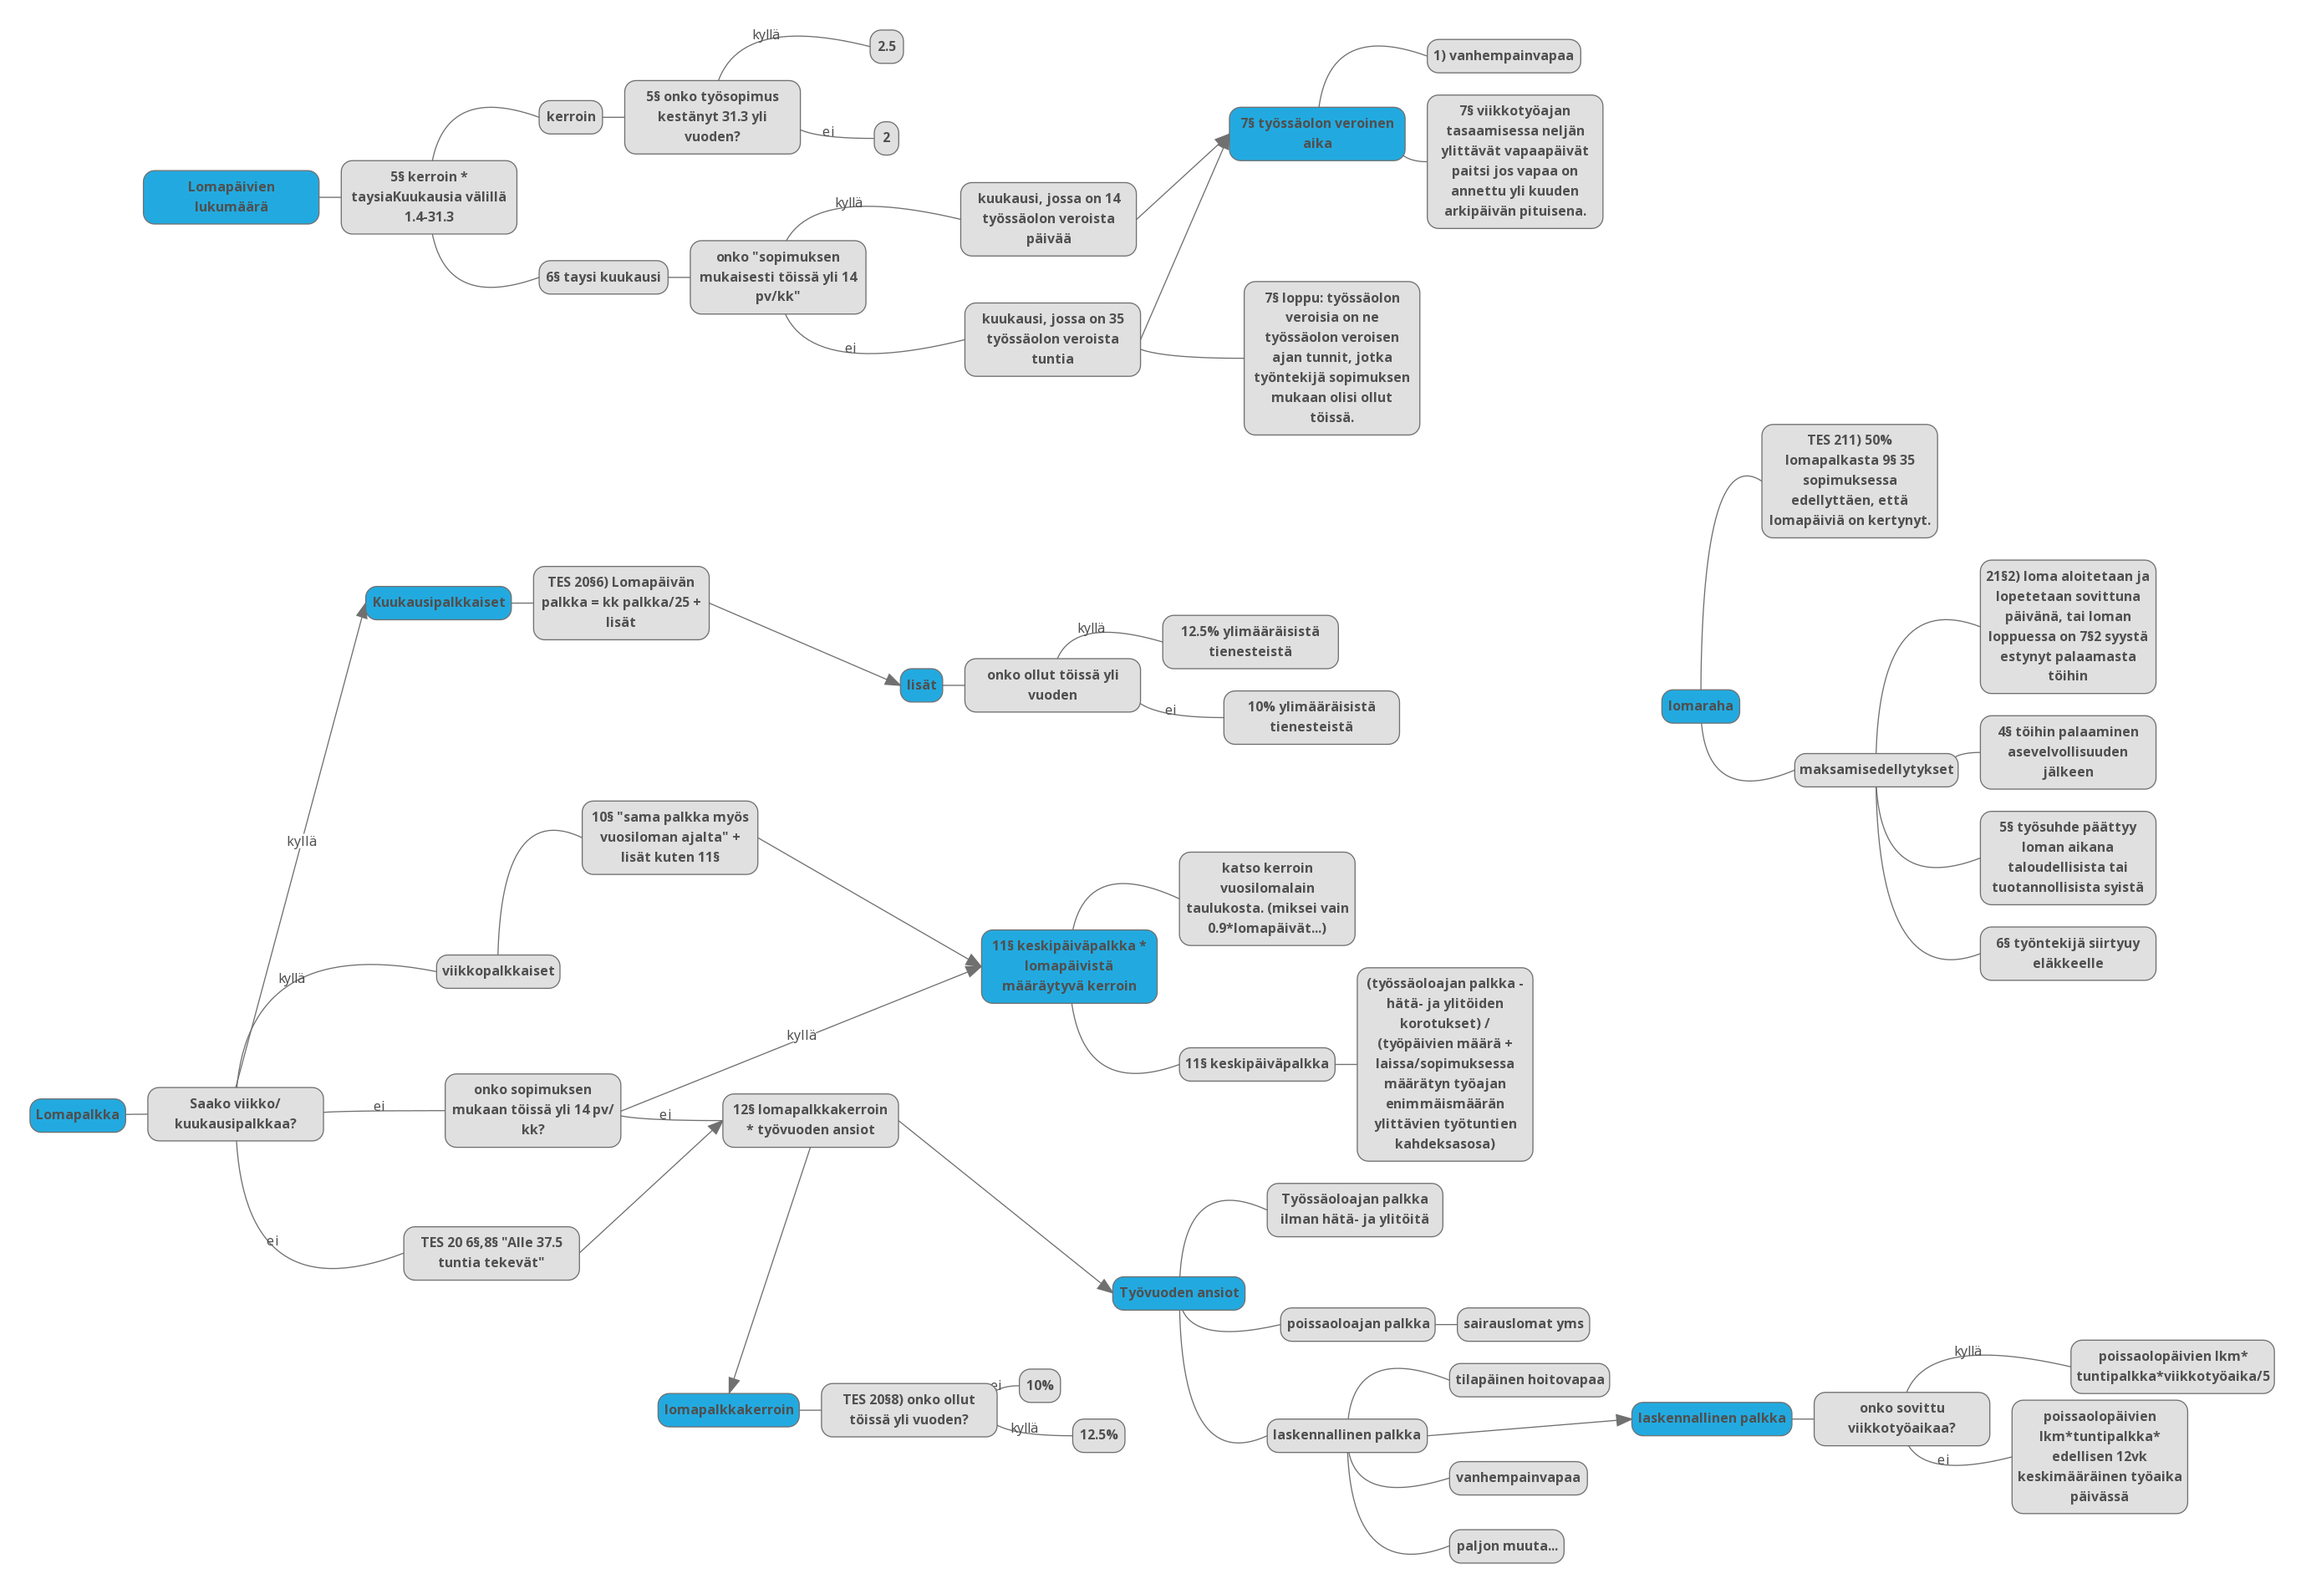
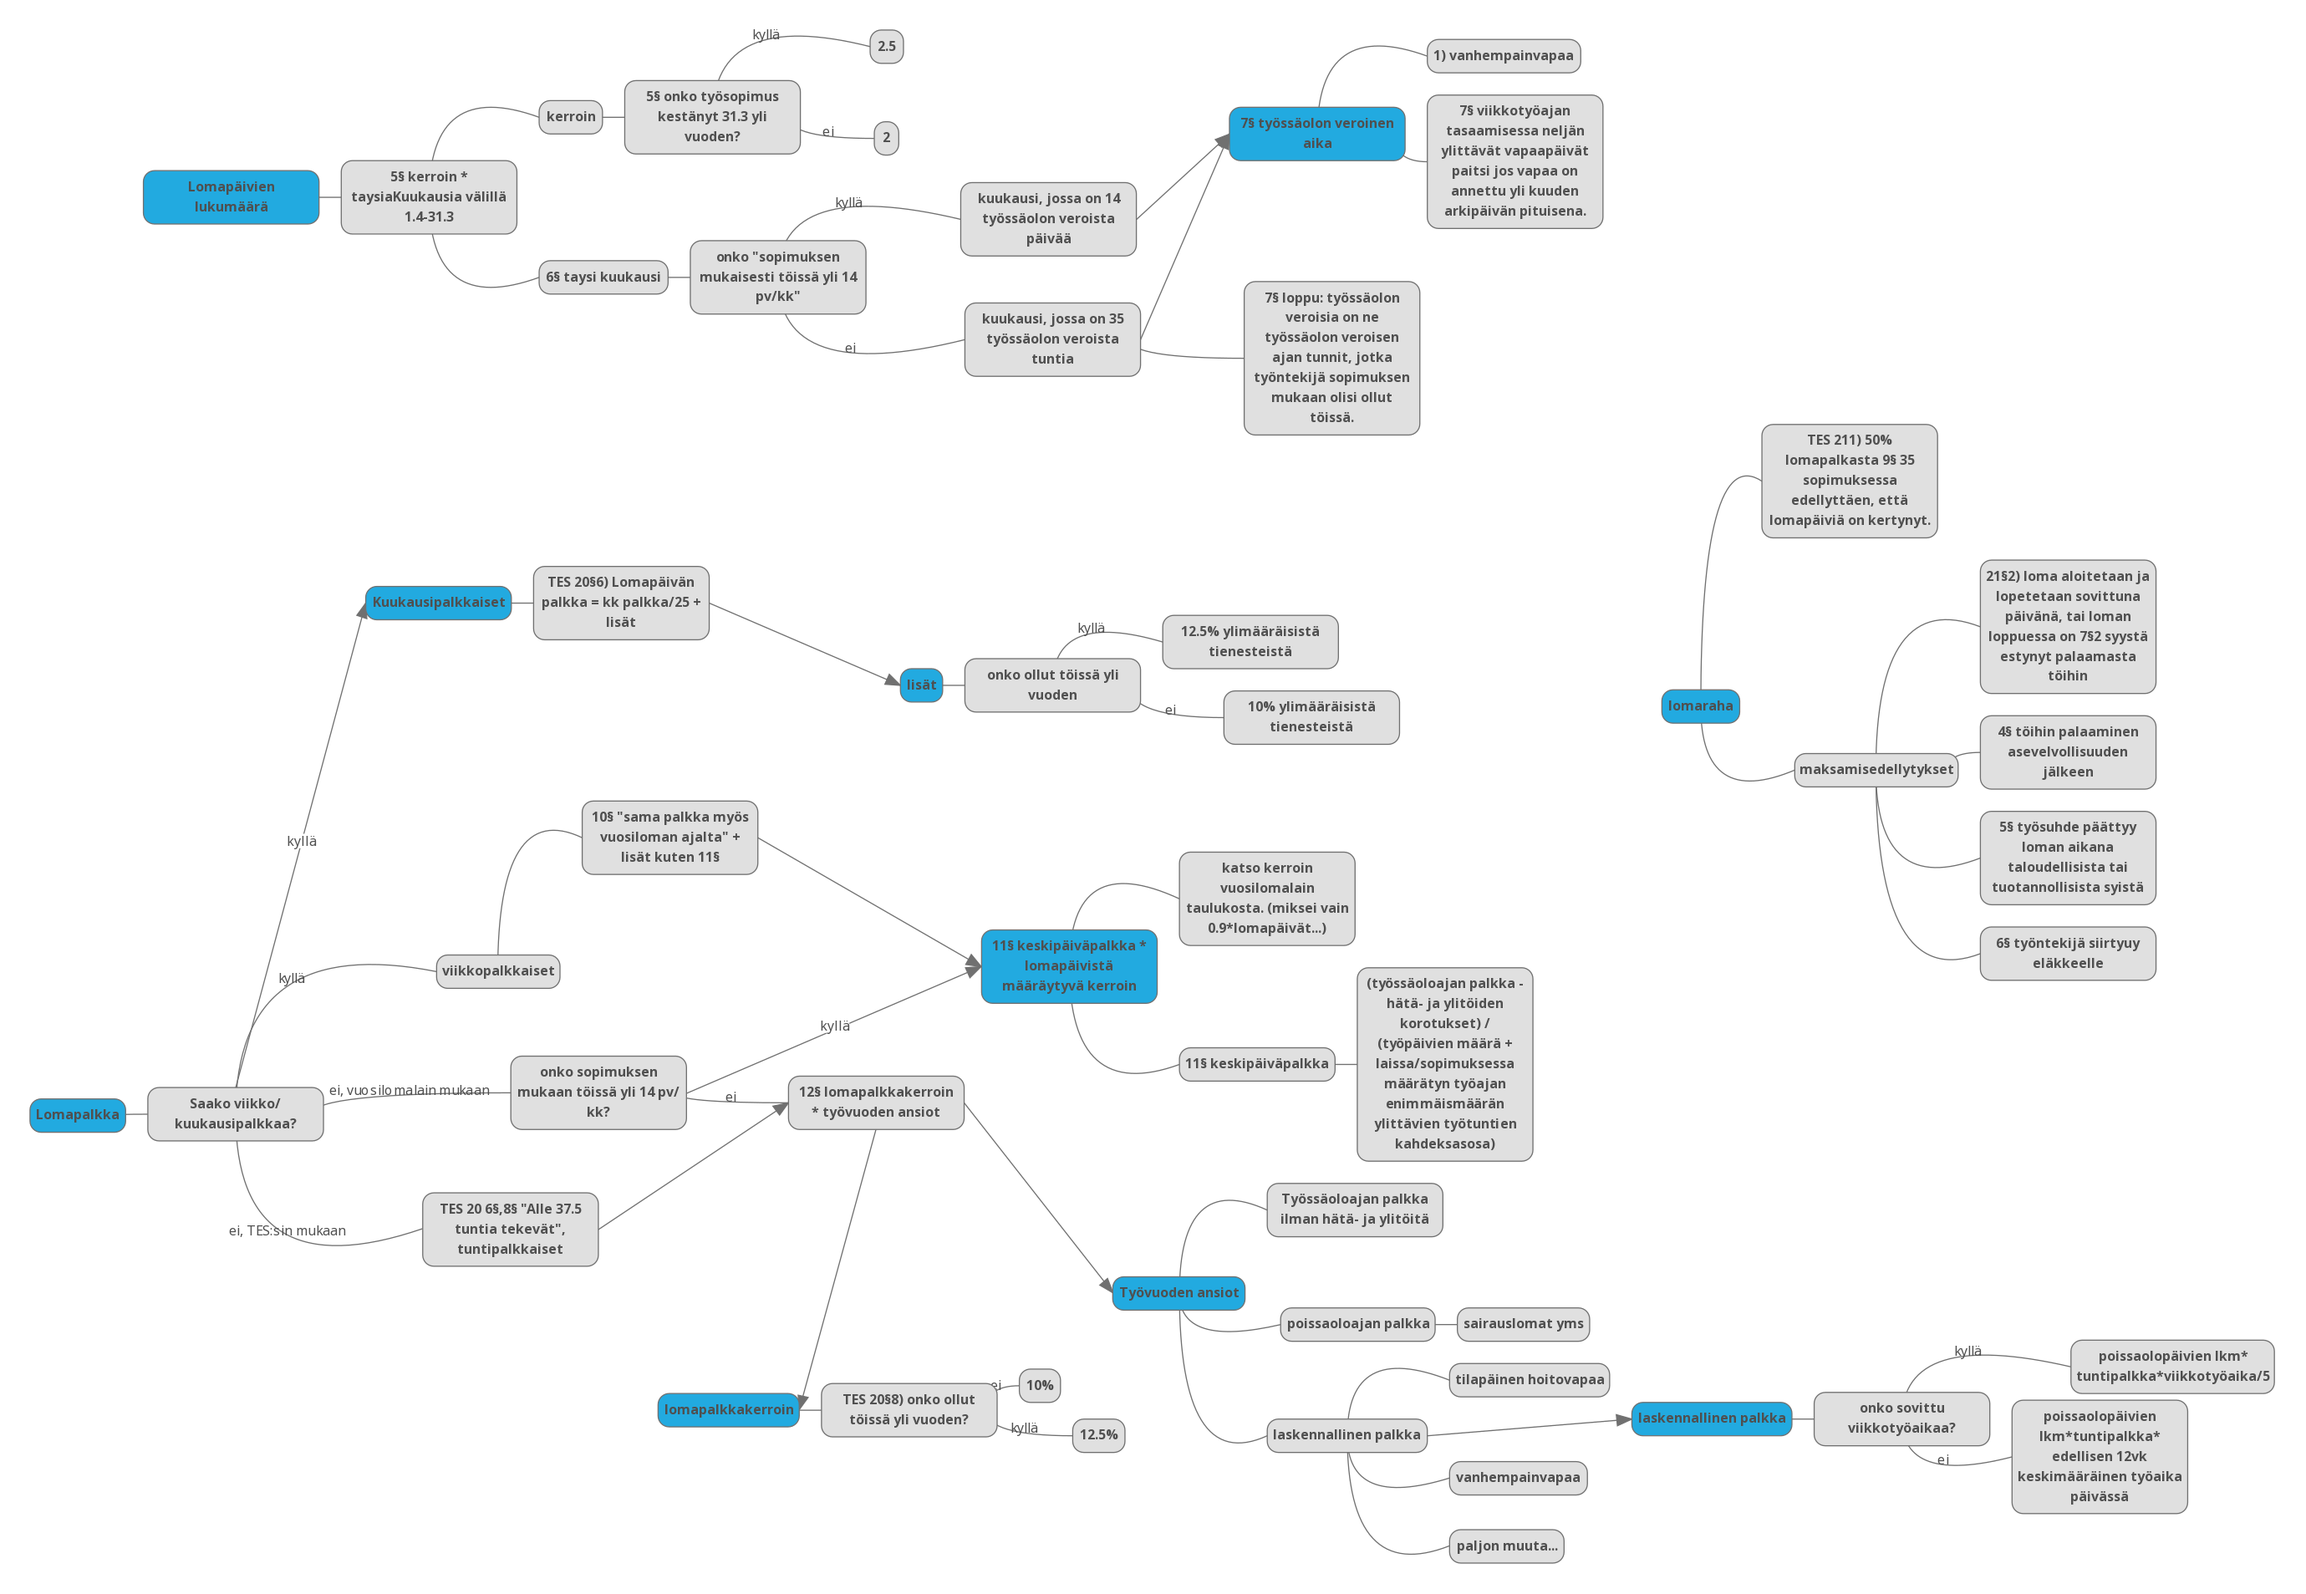
korjaus mindmappiin ja tuntipalkkaiseen lomanlaskutapaan

Changed region(s): [[0.1559, 0.6497, 0.4364, 0.8044]]

diff --git a/src/test/java/testvuosilomalaskuri/TestVuosilomaLaskelma.java b/src/test/java/testvuosilomalaskuri/TestVuosilomaLaskelma.java
@@ -410,13 +410,14 @@ public class TestVuosilomaLaskelma {
          * vuorokautisen työajan enimmäismäärää, sopimuksessa sovitun säännöllisen 
          * työajan lisäksi tehtyjen työtuntien kahdeksasosa.
          * 
+         * testitiedoston bonus-sarakkeen summa lomanmääräytymiskauden aikana 1013€
          * tyotunteja 10€ tuntipalkalla 687.75, 11€ tuntipalkalla 642.5
-         * 10*687.75+11*642.5=13945
+         * (10*687.75+11*642.5)+1013=14958
          * 
          * tavallisia työpäiviä 196, ylityötunteja 0
          */
         assertEquals("Ansiot ilman yli- ja hätätöiden lisiä",
-                new BigDecimal("13945.00"), vlplC.getAnsiotIlmanYliTaiHata()
+                new BigDecimal("14958.00"), vlplC.getAnsiotIlmanYliTaiHata()
                         .setScale(2, RoundingMode.HALF_UP));
         assertEquals("Työpäivät ja kahdeksasosa ylitöistä", new BigDecimal(196),
                 vlplC.getLaskennallisiaTyopaivia().setScale(0,
@@ -426,13 +427,12 @@ public class TestVuosilomaLaskelma {
                 vlplC.getViikottaisienTyopaivienMaaraJaettunaViidella()
                         .setScale(0, RoundingMode.HALF_UP));
         /**
-         * tyotunteja 10€ tuntipalkalla 687.75, 11€ tuntipalkalla 642.5 =>
-         * ansiot 10*687.75+11*642.5=13945 tavallisia työpäiviä 196,
+         * ansiot 14958 tavallisia työpäiviä 196,
          * ylityötunteja 0
          * 
-         * 13945/196=71.15
+         * 14958/196=71.15
          */
-        assertEquals("Keskimääräinen päiväpalkka", new BigDecimal("71.15"),
+        assertEquals("Keskimääräinen päiväpalkka", new BigDecimal("76.32"),
                 vlplC.getKeskimaarainenPaivapalkka().setScale(2,
                         RoundingMode.HALF_UP));
         /**
@@ -443,12 +443,12 @@ public class TestVuosilomaLaskelma {
                         RoundingMode.HALF_UP));
         /**
          * Lomanmääräytymisvuoden ansio työssäolon ajalta ilman yli- ja
-         * hätätöiden korotusosia tai bonuksia 13945.00 € Tehdyt työpäivät + 1/8
-         * ylitöistä 196.00 Keskimääräinen päiväpalkka 13945.00 : 196.00 = 71.15
+         * hätätöiden korotusosia tai bonuksia 14958.00 € Tehdyt työpäivät + 1/8
+         * ylitöistä 196.00 Keskimääräinen päiväpalkka 14958.00 : 196.00 = 76.32
          * € Viikoittaisten työpäivien määrä jaettuna viidellä 1 Vuosilomalain
-         * mukainen kerroin 23.2 tuntipalkkaperusteinen lomaPalkka 71.15 * 1 * 23.2 = 1650.63
+         * mukainen kerroin 23.2 tuntipalkkaperusteinen lomaPalkka 76.32 * 1 * 23.2 = 1770.54
          */
-        assertEquals("Lomapalkka testitapaus C", new BigDecimal("1650.63"),
+        assertEquals("Lomapalkka testitapaus C", new BigDecimal("1770.54"),
                 vlplC.getLomaPalkka());
         /**
          * mahdolliset lomarahan maksuedellytykset:
@@ -464,6 +464,6 @@ public class TestVuosilomaLaskelma {
          * Lomaraha on 50 % vuosilomalain mukaan ansaittua lomaa vastaavasta lomapalkasta.
          */
         assertEquals("Lomarahan suuruus testitapaus C",
-                new BigDecimal("825.32"), vlplC.getLomarahanSuuruus());
+                new BigDecimal("885.27"), vlplC.getLomarahanSuuruus());
     }
 }

diff --git a/src/main/java/vuosilomaLaskuri/VuosilomaLaskuri.java b/src/main/java/vuosilomaLaskuri/VuosilomaLaskuri.java
@@ -156,7 +156,8 @@ public class VuosilomaLaskuri {
         BigDecimal kerroin = vuosilomaEhdot
                 .getTuntipalkkaisenLomapalkkaKerroin(laskeLomapaivat(vuosi));
         vuosilomaPalkkalaskelma.setTuntipalkkaisenLomapalkkaKerroin(kerroin);
-        BigDecimal tyossaOloajanPalkka = valinMerkinnat.getPalkka();
+        BigDecimal tyossaOloajanPalkka = valinMerkinnat.getPalkka()
+                .add(valinMerkinnat.getBonukset());
         BigDecimal hataToistaSaatuPalkka = valinMerkinnat
                 .getTyyppisetMerkinnat(TyoMerkinnanTyyppi.hatatyo).getPalkka();
         BigDecimal ylitoistaSaatuPalkka = valinMerkinnat
